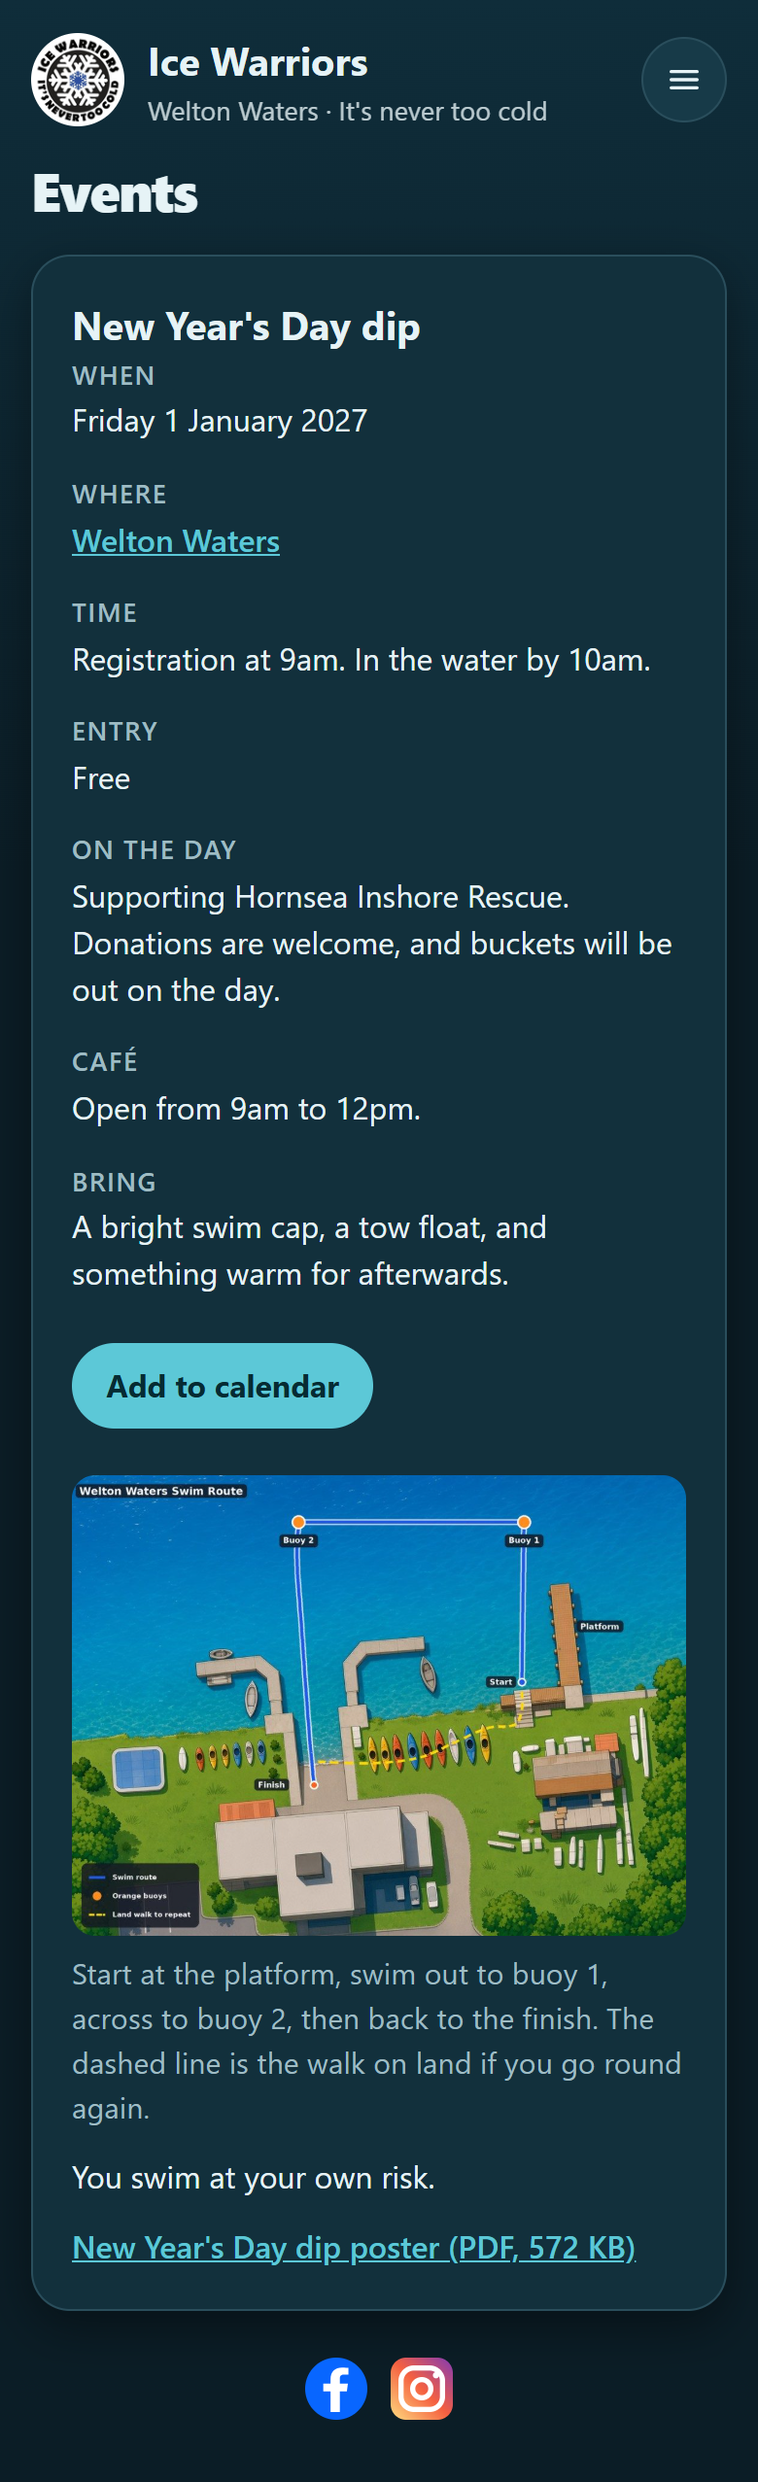
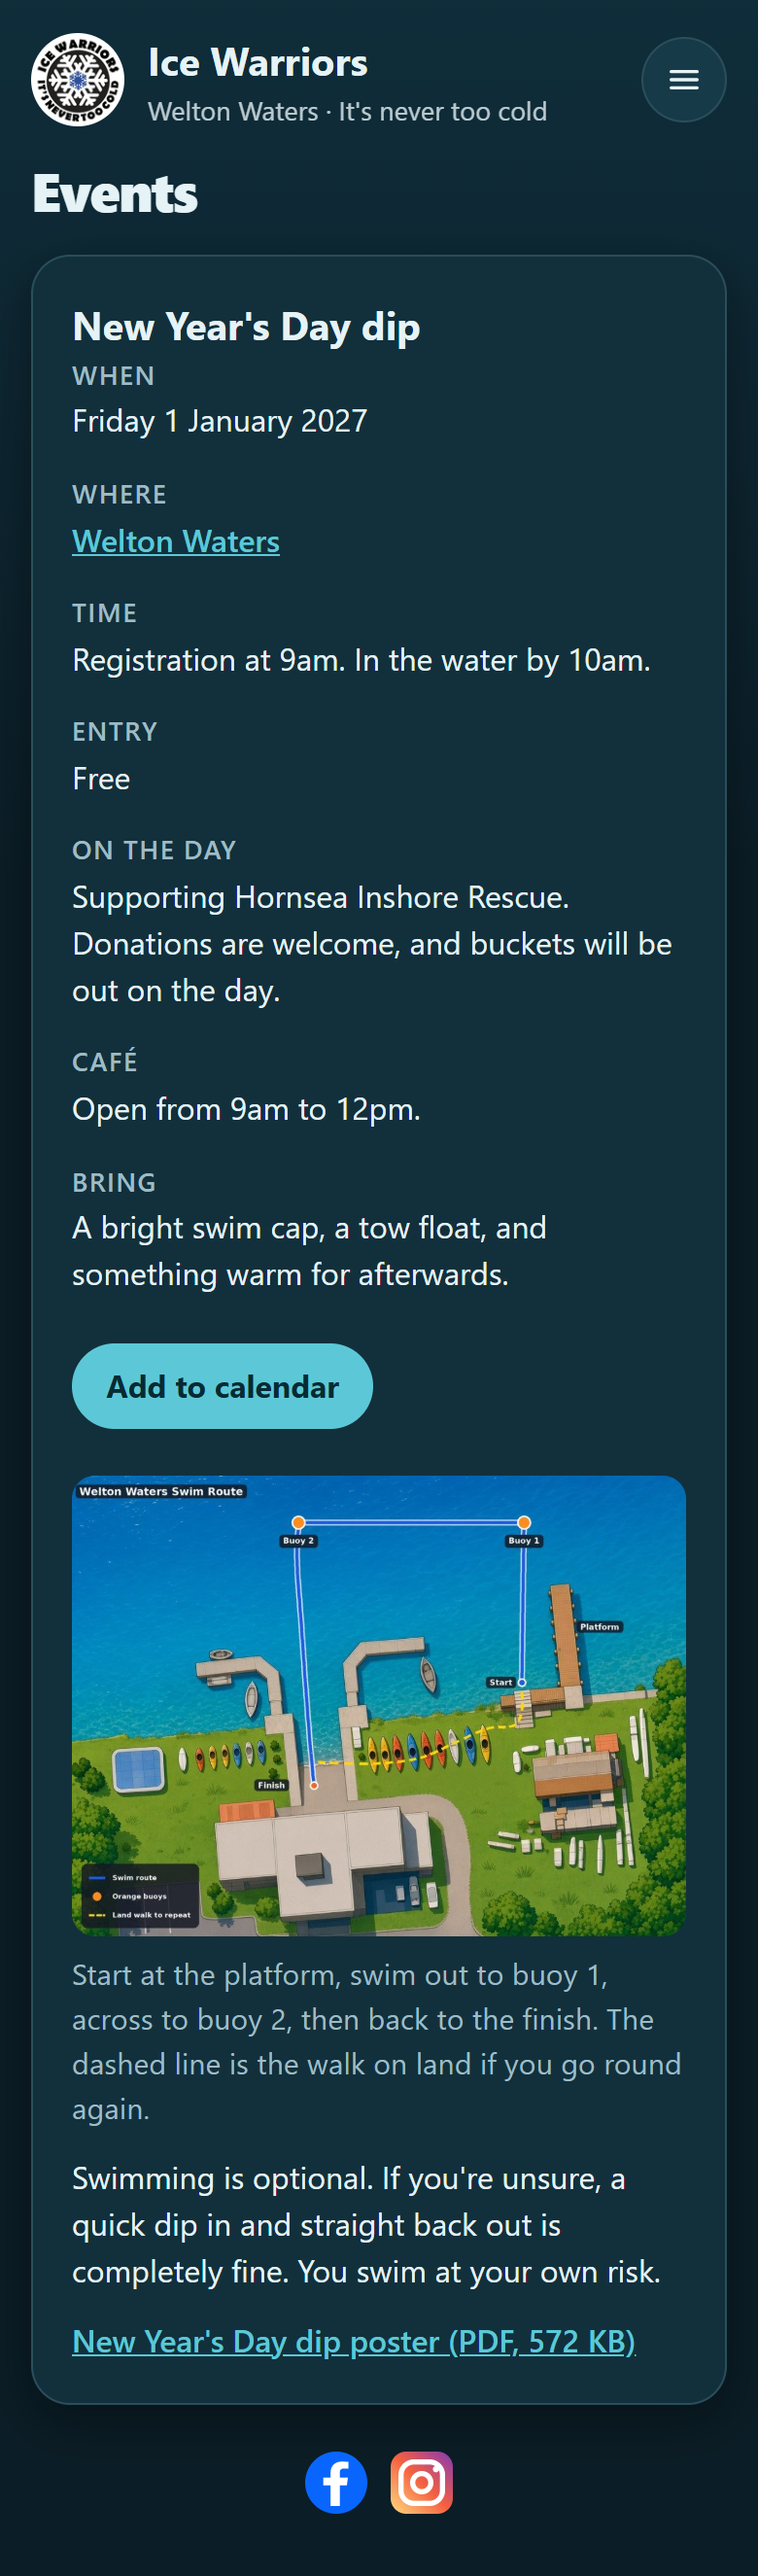
Take David off the team page, and make it clear a quick New Year dip is fine.

diff --git a/lake-temperature/src/index.ts b/lake-temperature/src/index.ts
@@ -21,7 +21,13 @@ export default {
         if (url.pathname.startsWith("/api/") || url.pathname === "/api") {
           return Response.json({ error: "Not found" }, { status: 404 });
         }
-        const page = await env.ASSETS.fetch(new URL("/404.html", url));
+        // /404.html redirects to /404 with an empty body under the default HTML handling.
+        // Fetch the canonical path so the 404 response still contains the page.
+        let page = await env.ASSETS.fetch(new URL("/404", url));
+        if (page.status >= 300 && page.status < 400) {
+          const location = page.headers.get("Location") ?? "/404.html";
+          page = await env.ASSETS.fetch(new URL(location, url));
+        }
         return new Response(page.body, {
           status: 404,
           headers: { "content-type": "text/html; charset=utf-8" },

diff --git a/lake-temperature/public/team.html b/lake-temperature/public/team.html
@@ -88,15 +88,6 @@
 							<p>If you need a tool, Martin has it. He looks after safety on the platform. He's a diver, and he takes the powerboat out when it's needed.</p>
 						</div>
 					</section>
-
-					<section class="card person">
-						<img class="face-mid" src="/images/david-wood.jpg" width="384" height="384" alt="David Wood swimming, in a yellow hat, with an orange tow float behind him." />
-						<div class="copy">
-							<h2>David Wood</h2>
-							<p class="person-role">Tech</p>
-							<p>David built this website, which is how the temperature stays up to date. He'll be on a powerboat soon, when he isn't in the water.</p>
-						</div>
-					</section>
 				</div>
 			</article>
 		</main>

diff --git a/lake-temperature/public/events.html b/lake-temperature/public/events.html
@@ -89,12 +89,12 @@
 						<form method="dialog">
 							<button type="submit" class="route-close">Close</button>
 						</form>
-						<div class="route-scroll">
+						<div class="route-scroll" tabindex="0" aria-label="Enlarged swim route. Arrow keys move around the map.">
 							<img src="/images/nyd-2027-route.jpg" width="1024" height="768" alt="" />
 						</div>
 					</dialog>
 
-					<p>You swim at your own risk.</p>
+					<p>Swimming is optional. If you're unsure, a quick dip in and straight back out is completely fine. You swim at your own risk.</p>
 					<p><a href="/events/new-years-day-dip-2027.pdf">New Year's Day dip poster (PDF, 572 KB)</a></p>
 				</section>
 			</article>

diff --git a/lake-temperature/public/styles.css b/lake-temperature/public/styles.css
@@ -765,10 +765,6 @@ figcaption {
 		object-position: center 28%;
 	}
 
-	.person img.face-mid {
-		object-position: center 50%;
-	}
-
 	#chart-container {
 		height: 22rem;
 	}
